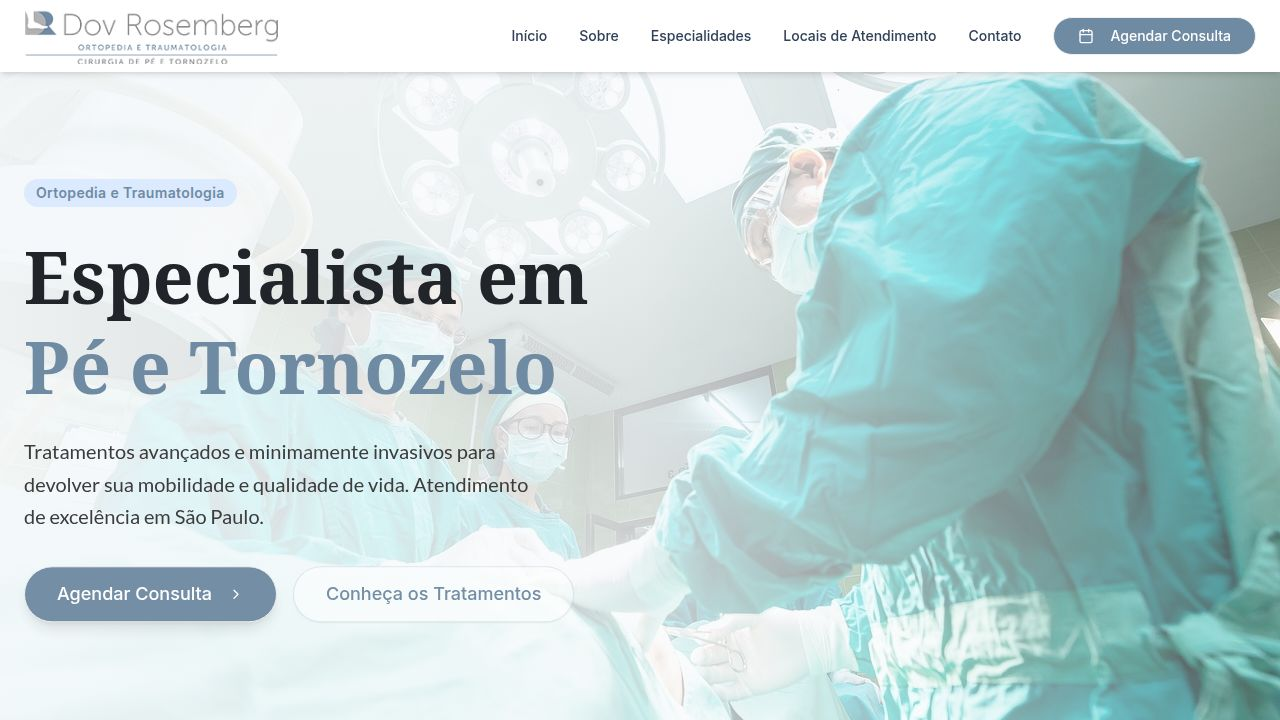
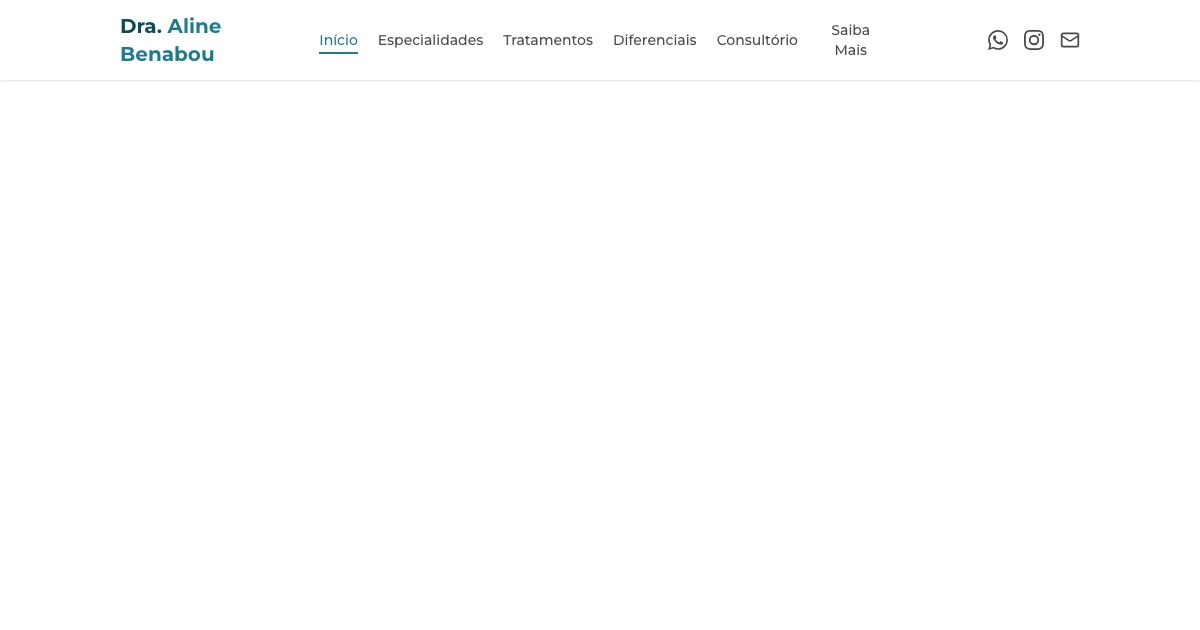
fix: corrige prévia de compartilhamento (og:image própria e absoluta)
A imagem Open Graph era um print do site do Dr. Dov (sobra do template
whitelabel) e a meta apontava para arquivo inexistente. Nova imagem do
próprio site e URL absoluta do domínio correto.

diff --git a/client/index.html b/client/index.html
@@ -10,7 +10,7 @@
     <meta property="og:title" content="Dr(a). Nome | Especialidade Medica" />
     <meta property="og:description" content="Especialista em [especialidade]. Agende sua consulta." />
     <meta property="og:type" content="website" />
-    <meta property="og:image" content="/images/opengraph.png" />
+    <meta property="og:image" content="https://draalinebenabou.com.br/opengraph.jpg" />
     <meta name="twitter:card" content="summary_large_image" />
     <meta name="twitter:title" content="Dr(a). Nome | Especialidade Medica" />
     <meta name="twitter:description" content="Especialista em [especialidade]. Atendimento humanizado." />
